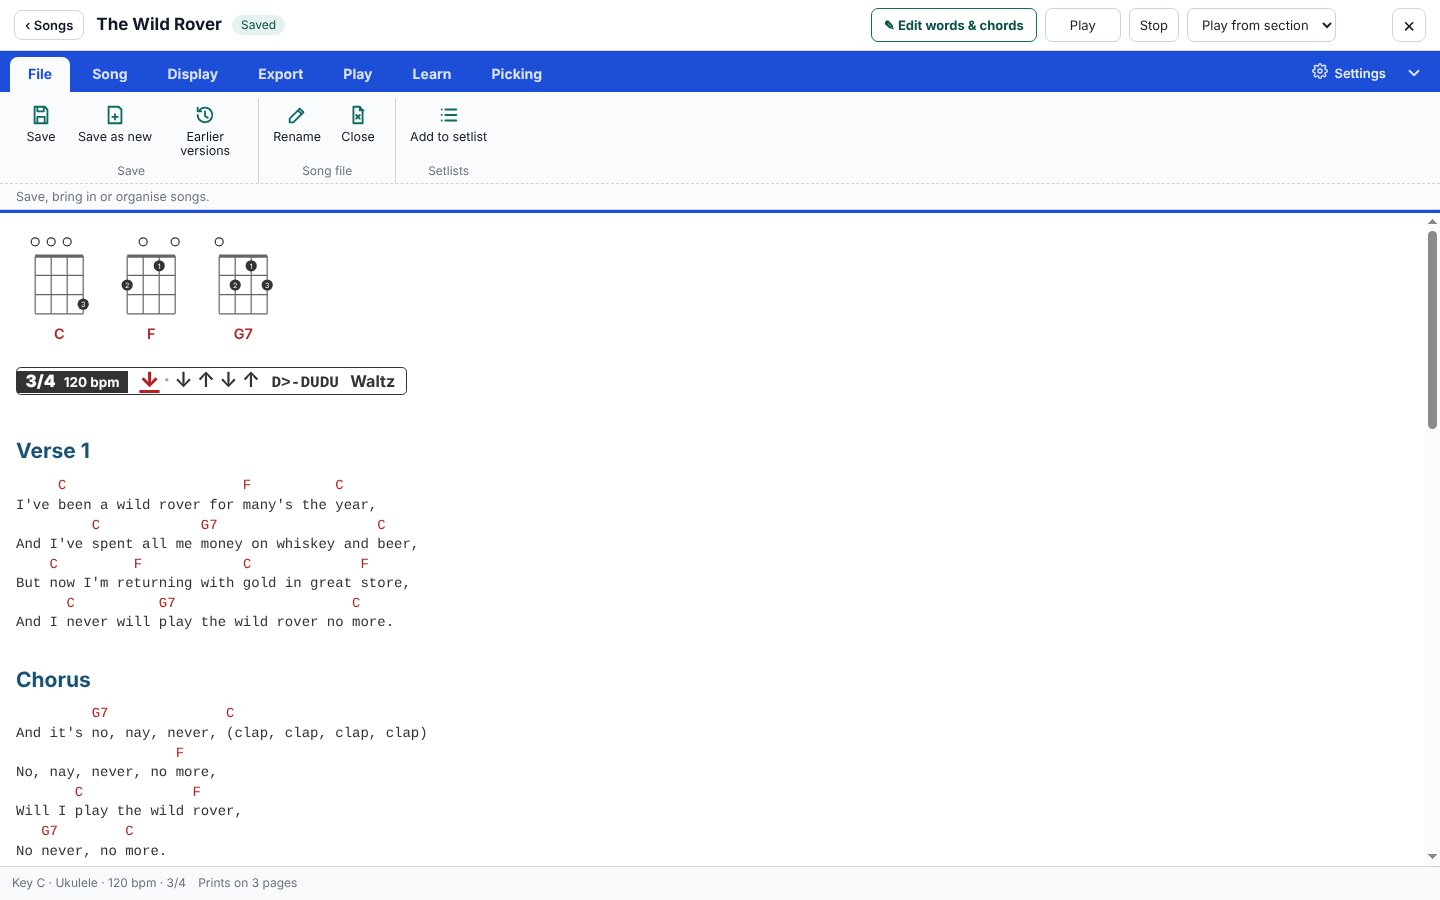
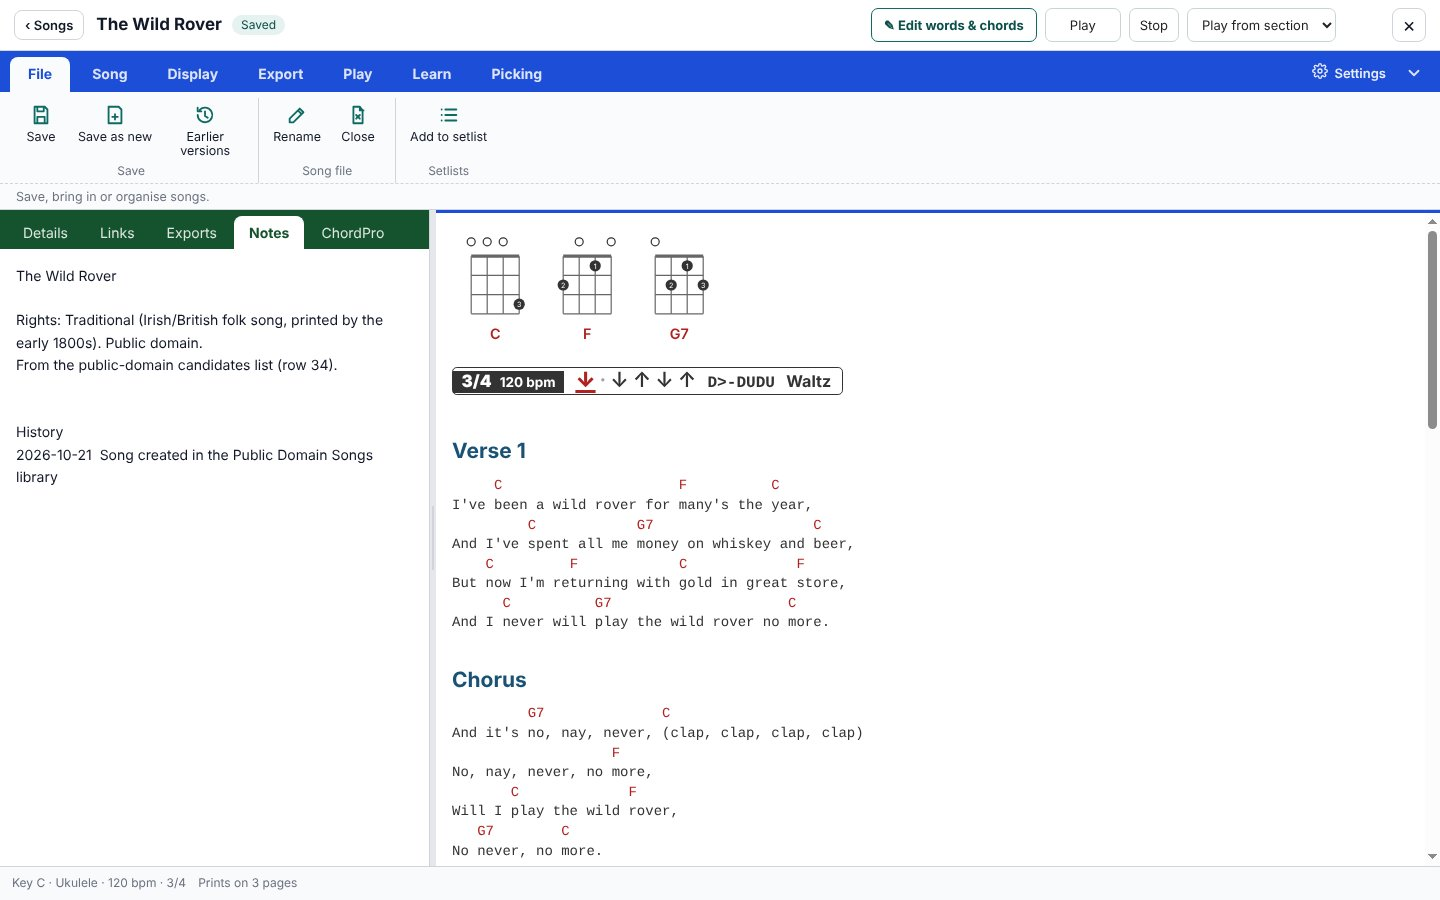
v4.95.1: reading a song: Details, Links, Exports, Notes and ChordPro stay beside the sheet
Claude-Session: https://claude.ai/code/session_01UbrCRY8oACMXjLtCFCbaus

diff --git a/index.html b/index.html
@@ -119,8 +119,9 @@
       #editWordsButton { font: inherit; font-size: 13px; font-weight: 700; padding: 7px 12px; border-radius: 7px; border: 1px solid var(--accent); background: var(--panel-bg, #fff); color: var(--accent-dark); cursor: pointer; white-space: nowrap; }
       #editWordsButton:hover { background: var(--accent-soft); }
       html[data-editing] #editWordsButton { background: var(--accent); color: #fff; }
-      html:not([data-editing]) .workspace { grid-template-columns: minmax(0, 1fr) !important; }
-      html:not([data-editing]) .workspace > .editor-panel, html:not([data-editing]) .workspace > #splitter { display: none; }
+      /* 4.95.1: reading, the song's Details, Links, Exports, Notes and ChordPro stay beside the sheet,
+         in a narrower column; only Words & chords waits for Edit words & chords */
+      html:not([data-editing]) .workspace { grid-template-columns: minmax(260px, 0.6fr) 6px minmax(0, 1.4fr) !important; }
       html:not([data-editing]) [data-edit-only] { display: none !important; }
       html:not([data-editing]) .preview-head, html:not([data-editing]) #cursorLabel { display: none; }
       /* 4.94: reading, a firm line between the tools and the song */
@@ -2940,7 +2941,7 @@
       <div class="workspace" id="workspace">
         <section class="panel editor-panel">
           <div class="editor-tabs" role="tablist">
-            <button id="tabSong" type="button" role="tab" class="active">Words &amp; chords</button>
+            <button id="tabSong" type="button" role="tab" class="active" data-edit-only>Words &amp; chords</button>
             <button id="tabDetails" type="button" role="tab" title="About the song: artist, year, written by, album, source, tags, difficulty and its key">Details</button>
             <button id="tabLinks" data-feature="songLinks" type="button" role="tab" title="Web pages for the song: the original on YouTube, a uke play-along, a lesson, Wikipedia">Links</button>
             <button id="tabExports" data-feature="songExports" type="button" role="tab" title="Everything exported for this song: look at it, see what's out of date, delete it">Exports</button>
@@ -4916,7 +4917,7 @@
         }
 
         // 4.93: Edit words & chords. A song opens as the sheet to play from (the editor hidden, the
-        // sheet the whole width); the button (or F2) shows the words and chords beside it, and Done
+        // song's Details, Notes, Links… beside it, 4.95.1); the button (or F2) shows the words and chords too, and Done
         // hides them again. Nothing is saved by switching: Save (and Discard) do that, either way.
         function isEditing() { return document.documentElement.hasAttribute('data-editing'); }
         function setEditing(on, { focus = false } = {}) {
@@ -4929,6 +4930,9 @@
             ? 'Back to the sheet (F2). Your changes stay until you Save or Discard them'
             : 'Show the words and chords to change them (F2). Done goes back to the sheet; Save keeps your changes';
           if (!on && document.querySelector('.ribbon-tab.active[data-edit-only]')) showRibbon('song');
+          // 4.95.1: editing shows the words; reading, the tab you last read (the notes, if the song has any)
+          if (on && !was) showTab('song');
+          if (!on && document.getElementById('tabSong').classList.contains('active')) showTab(state.readingTab || (notesEditor.value.trim() ? 'notes' : 'details'));
           if (was !== Boolean(on)) {
             window.ukemusicFoldRibbon?.();
             showChordEditButton();
@@ -10993,6 +10997,8 @@ function showTab(tab) {
 
         document.getElementById('tabSong').addEventListener('click', () => showTab('song'));
         document.getElementById('tabNotes').addEventListener('click', () => showTab('notes'));
+        // 4.95.1: the tab you read while not editing is the one you come back to
+        for (const [id, tab] of [['tabNotes', 'notes'], ['tabDetails', 'details'], ['tabLinks', 'links'], ['tabExports', 'exports'], ['tabChordPro', 'chordpro']]) document.getElementById(id).addEventListener('click', () => { if (!isEditing()) state.readingTab = tab; });
         document.getElementById('tabDetails').addEventListener('click', () => showTab('details'));
         document.getElementById('tabLinks').addEventListener('click', () => showTab('links'));
         document.getElementById('tabExports').addEventListener('click', () => showTab('exports'));

diff --git a/test/v4951.test.js b/test/v4951.test.js
@@ -1,0 +1,20 @@
+// 4.95.1: reading (not editing), the song's Details, Links, Exports, Notes and ChordPro stay beside
+// the sheet in a narrower column; only Words & chords waits for Edit words & chords. Done goes
+// back to the tab you were reading (the notes, if the song has any, at first).
+const assert = require('assert');
+const fs = require('fs');
+const path = require('path');
+
+function test(name, fn) {
+  try { fn(); console.log(`✓ ${name}`); } catch (error) { console.error(`✗ ${name}`); throw error; }
+}
+const DESKTOP = fs.readFileSync(path.join(__dirname, '..', 'index.html'), 'utf8').replace(/\r\n/g, '\n');
+
+test('the song\'s other tabs while reading; Words & chords while editing', () => {
+  assert.ok(DESKTOP.includes('html:not([data-editing]) .workspace { grid-template-columns: minmax(260px, 0.6fr) 6px minmax(0, 1.4fr) !important; }'));
+  assert.ok(!DESKTOP.includes('html:not([data-editing]) .workspace > .editor-panel'), 'the column isn\'t hidden');
+  assert.ok(DESKTOP.includes('<button id="tabSong" type="button" role="tab" class="active" data-edit-only>Words &amp; chords</button>'));
+  assert.ok(DESKTOP.includes("if (on && !was) showTab('song');"));
+  assert.ok(DESKTOP.includes("if (!on && document.getElementById('tabSong').classList.contains('active')) showTab(state.readingTab || (notesEditor.value.trim() ? 'notes' : 'details'));"));
+  assert.match(DESKTOP, /if \(!isEditing\(\)\) state\.readingTab = tab;/);
+});

diff --git a/test/v493.test.js b/test/v493.test.js
@@ -17,8 +17,9 @@ const WEB = read('web/app.html');
 const F = require('../src/feature-levels.js');
 
 test('the song opens as the sheet: the editor, the Write tab and Tidy chords only while editing', () => {
-  assert.ok(DESKTOP.includes('html:not([data-editing]) .workspace { grid-template-columns: minmax(0, 1fr) !important; }'));
-  assert.ok(DESKTOP.includes('html:not([data-editing]) .workspace > .editor-panel, html:not([data-editing]) .workspace > #splitter { display: none; }'));
+  // 4.95.1: reading, the song's other tabs stay beside the sheet; only Words & chords waits for editing
+  assert.ok(DESKTOP.includes('html:not([data-editing]) .workspace { grid-template-columns: minmax(260px, 0.6fr) 6px minmax(0, 1.4fr) !important; }'));
+  assert.match(DESKTOP, /<button id="tabSong" type="button" role="tab" class="active" data-edit-only>Words &amp; chords<\/button>/);
   assert.ok(DESKTOP.includes('html:not([data-editing]) [data-edit-only] { display: none !important; }'));
   assert.match(DESKTOP, /<button id="ribbonTabWrite" data-edit-only class="ribbon-tab"/);
   assert.match(DESKTOP, /<button id="convertLinesButton" data-feature="tidy" data-edit-only/);

diff --git a/HANDOVER.md b/HANDOVER.md
@@ -893,6 +893,7 @@ Full description: **INSTRUMENTS.md** (users and developers).
 | 4.94.1 | Songs and Free Practice as tab shapes; no sideways jump between Songs and Setlists |
 | 4.94.2 | Free Practice opened twice no longer leaves the page inert; site-pictures and the UI review run clean again |
 | 4.95.0 | Website: plain, functional design (four text sizes, system font, no decoration); a user guide with pictures |
+| 4.95.1 | Reading a song: Details, Links, Exports, Notes and ChordPro stay beside the sheet |
 | 4.53.0 (ribbon layout) | index.html ribbon rebuilt to one standard (`/* ── 4.53: the ribbon's layout ── */` at the end of the main style block): `.rib-group` = `.rib-items` (height `--rib-h`, 62px) over `.rib-label`; large `.rib-button`s; `.rib-col` = up to two rows of `--rib-row` (28px) small controls (`.rib-field`, `.rib-row`, `.rib-check`, `.rib-small`, `.rib-note`); a column whose fields have labels becomes a two-column grid (labels right-aligned, controls lined up). One setting in a group: no label (aria-label instead), the group names it. `.ribbon-panel` doesn't wrap: `foldRibbon()` folds groups from the right into generated `.rib-fold` buttons (`.rib-group.folded`, `.open` shows the group as a popover); runs on resize; `revealElement` opens a folded group. Own-setting mark moved to the group caption (`:has(.rib-own)`). Tab renamed Picking. `#writtenAccompaniment` goes in the strum column's second row. Tests: test/ribbon-layout.test.js. |
 | 4.53.0 | Ribbon buttons: content-sized (56px minimum, 88px usual maximum, 104px for long labels), top-aligned controls and retained icons when Play/Pause changes. File/Write use the requested short labels; Archive removed from File, Strums moved to native Help; This song renamed Song with its panel unchanged. `src/song-ui.js` shares `setControlLabel` and `memoryPlayLabel` across desktop/web. Learn labels describe chord visibility; “Play in new key”, “Practise trouble spots”, “Circle of fifths”; Pick “Choose picking” retains current-line insertion. Ribbon panels share one CSS grid row for stable height; inactive panels are invisible and inert. Section captions replace repeated upper labels; compact loop wording and Auto feel/Even selections retain existing values. The screenshot review checks equal header heights at 1440 and 1120px. Playback behaviour is unchanged. `test/song-ui-labels.test.js` covers labels, retained icons and targeted review arguments. UI review preserves the first app argument and supports section filters for iPad/iPhone as well as desktop. |
 | 2.5.0 | Initial release. Parser, HTML/Markdown renderers, Electron UI, CodeMirror, live preview, diagrams, tablature, INI config, editable stylesheet. |

diff --git a/README.md b/README.md
@@ -167,7 +167,7 @@ The guides and the changelog are pages of [the website](https://markbeachill.git
 ## Getting around the desktop app
 
 - ukemusic opens on **Songs** (the library), with **Free Practice** the other tab at the top. Songs show as tiles, or as a list with every detail (the choice is kept). **New song** asks how: paste one from a website, write your own, or import a file. Three old, copyright-free starter songs show how songs are written.
-- A song opens as the **sheet to play from**, the whole width of the window. **✎ Edit words & chords** (or F2) shows the words and chords beside it to change them, and **Done** goes back; **×** at the top right closes the song. A new or imported song opens ready to change (Settings → Opening a song can make every song open that way). Anything you change, editing or not (the words, or the tempo or picking pattern while playing), waits for **Save** or **Discard**, at the top beside the song's name.
+- A song opens as the **sheet to play from**, with its Details, Notes, Links, Exports and ChordPro fields in a narrower column beside it. **✎ Edit words & chords** (or F2) shows the words and chords beside it to change them, and **Done** goes back; **×** at the top right closes the song. A new or imported song opens ready to change (Settings → Opening a song can make every song open that way). Anything you change, editing or not (the words, or the tempo or picking pattern while playing), waits for **Save** or **Discard**, at the top beside the song's name.
 - In a song, the tabs hold everything (File → Close goes back to your songs). **View** has the look (diagrams, text size, strum style, layout) and **Export** makes PDFs and other files in one click:
   - **File**: close, save, save as new, rename, import, paste, add to setlist;
   - **Write**: tab, strums, suggest the key, chords into words (for songs copied from websites), How to write (the guide);

diff --git a/docs/user-guide.md b/docs/user-guide.md
@@ -45,9 +45,9 @@ A new, pasted or imported song opens ready to edit. Press **Save** to keep it.
 
 ## A song: reading and editing
 
-A song opens as the sheet to play from, the whole width of the window.
+A song opens as the sheet to play from. Beside it, in a narrower column, are the song's **Details** (artist, year, key, tempo, time, tags), **Notes**, and (with all features) its **Links**, **Exports** and **ChordPro** fields. The column opens on the notes, if the song has any, or on the tab you last looked at.
 
-![A song open as the sheet, with the tools above it](../site/img/guide/desktop-S1.jpg)
+![A song open as the sheet, with its notes beside it and the tools above it](../site/img/guide/desktop-S1.jpg)
 
 Along the top:
 
@@ -66,7 +66,7 @@ Press **✎ Edit words & chords**. The words and chords are on the left, the she
 
 - Type the words with each chord in square brackets just before the word where it changes: `[C]Oh my [G7]darling`. The [song guide](../WRITING.md) has everything else you can type.
 - The **Write** tab has buttons for what's harder to type (a chord, a heading, a strum, a bar line, tab), Undo and Redo, and **Writing**, the song guide.
-- The tabs over the words: **Words & chords**, **Details** (artist, year, key, tempo, time, tags), **Notes**, and (with all features) **Links**, **Exports** and **ChordPro**.
+- **Words & chords** joins the song's other tabs while you edit; **Done** goes back to the tab you were reading.
 
 **Edit chords on the sheet** lets you move chords with the mouse instead: turn it on with **Write → On the sheet**, the **Edit chords** box over the sheet, or a right-click on the sheet. Then drag a chord to the word where it's played, click a chord to change it or take it out, or click in the words to put one there.
 

diff --git a/CHANGELOG.md b/CHANGELOG.md
@@ -1,5 +1,11 @@
 # Changelog
 
+## v4.95.1
+
+- When you're reading a song (not editing), its **Details**, **Links**, **Exports**, **Notes** and **ChordPro** tabs now stay beside the sheet, in a narrower column. Before, they were only there while editing. Only **Words & chords** waits for **✎ Edit words & chords**.
+- The column opens on the song's notes if it has any (otherwise Details), and after that on the tab you last looked at. **Done** goes back to it.
+- The user guide, the README, and the guide's and website's pictures of a song open have been updated.
+
 ## v4.95.0
 
 - The website has a plainer design, closer to a manual than an advert:
